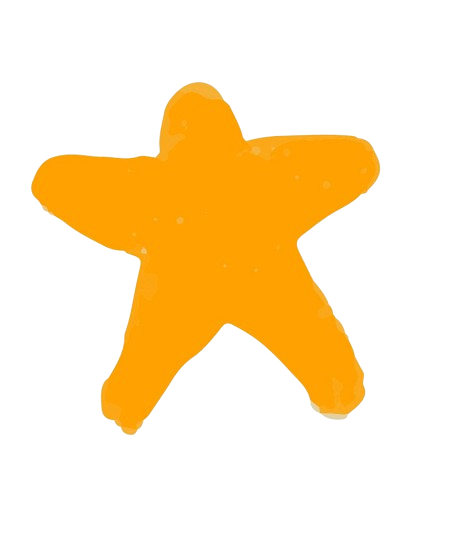
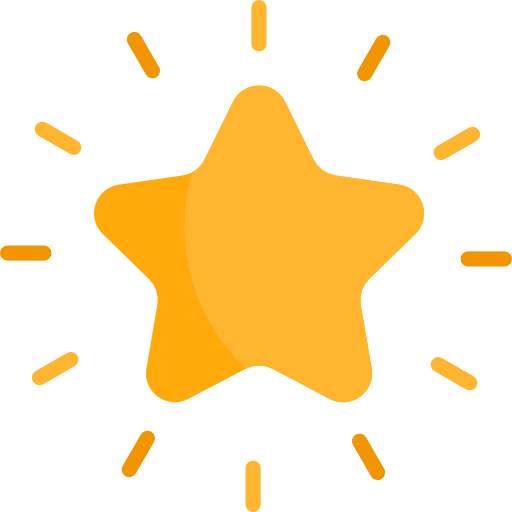
Feb 14th commit

diff --git a/lib/MainPage.dart b/lib/MainPage.dart
@@ -220,11 +220,14 @@ class _MainState extends State<MainPage> {
           ),
         ],
       ),
-      body: Column(
-        children: [
-          _searchBox(),
-          SizedBox(height: 20,),
-        ],
+      body: SingleChildScrollView(
+        child: Column(
+          children: [
+            _searchBox(),
+            SizedBox(height: 20,),
+            _fourMenu(),
+          ],
+        ),
       ),
       bottomNavigationBar: BottomNavigationBar(
         selectedItemColor: Colors.green,
@@ -361,4 +364,66 @@ class _MainState extends State<MainPage> {
       ],
     );
   }
+  Widget _buildCard(String text, String imagePath, Color color){
+    return InkWell(
+      onTap: (){},
+      child: Card(
+        elevation: 4,
+        shape: RoundedRectangleBorder(
+          borderRadius: BorderRadius.circular(20),
+        ),
+        child: Container(
+          width: 130,
+          height: 130,
+          child: Column(
+            mainAxisAlignment: MainAxisAlignment.center,
+            children: [
+              Image.asset(
+                imagePath,
+                width: 50,
+                height: 50,
+                fit: BoxFit.contain,
+              ),
+              SizedBox(height: 20),
+              Text(
+                text,
+                style: TextStyle(
+                  fontSize: 15.0,  // 모든 텍스트의 크기를 동일하게 설정합니다.
+                  color: color,  // 텍스트의 색깔을 설정합니다.
+                ),
+              )
+            ],
+          ),
+          decoration: BoxDecoration(
+            color: Colors.white,
+            borderRadius: BorderRadius.circular(20),
+          ),
+        ),
+      ),
+    );
+  }
+
+  // 메뉴 만들기
+  Widget _fourMenu(){
+    return Column(
+      children: [
+        Row(
+          mainAxisAlignment: MainAxisAlignment.spaceEvenly,
+          children: [
+            _buildCard('신간도서', 'assets/images/star.png', Color(0xffffa07a)),
+            _buildCard('인기도서', 'assets/images/heart.png', Color(0xffADD797)),
+          ],
+        ),
+        SizedBox(height: 20),
+        Row(
+          mainAxisAlignment: MainAxisAlignment.spaceEvenly,
+          children: [
+            _buildCard('연령별 추천도서', 'assets/images/recommand.png', Color(0xffb0c4de)),
+            _buildCard('카테고리', 'assets/images/category.png', Color(0xffffb6c1)),
+          ],
+        ),
+      ],
+    );
+  }
 }
+
